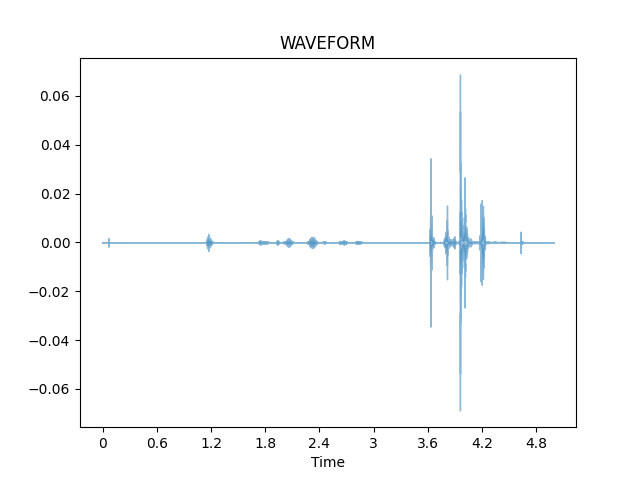
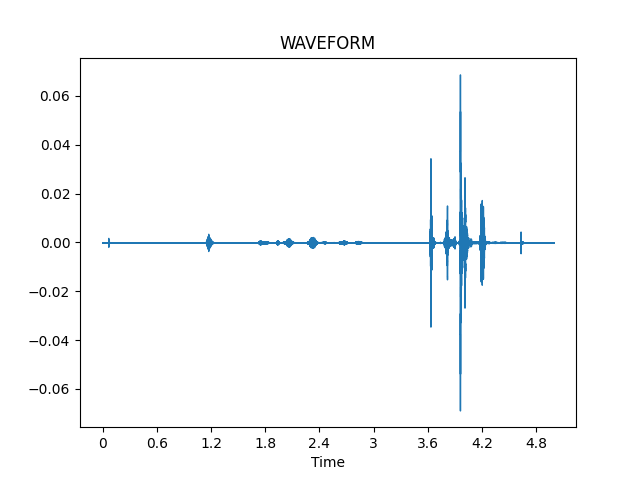
Nuevas graficas añadidas con carpetas

Changed region(s): [[0.1562, 0.3438, 0.8438, 0.6562]]

diff --git a/librosaejemplo.py b/librosaejemplo.py
@@ -7,6 +7,9 @@ WAVEFORM_path_export = 'waveform'
 SPECTROGRAM_path_export='spectogram'
 CHROMAGRAM_path_export='chromagram'
 MFCC_path_export='mfcc'
+AMPLITUDEENV_path_export='amplitude envelope'
+RMSE_path_export='root mean square energy'
+ZCR_path_export='zero croosing rate'
 clip = (r'C:\Users\BHC4SLP\Documents\Python Projects\Proyecto2-GraficaAudio\PruebaAudio1.wav')
 
 
@@ -15,7 +18,7 @@ D = librosa.stft(y)
 # STFT of y 
 S_db = librosa.amplitude_to_db(np.abs(D), ref=np.max) 
 
-# # Simple WAVEFORM to check clip trimming accuracy 
+# Simple WAVEFORM to check clip trimming accuracy 
 fig, ax = plt.subplots() 
 img = librosa.display.waveshow(y, sr=sr, x_axis='time') 
 ax.set(title='WAVEFORM') 
@@ -27,11 +30,95 @@ if not os.path.exists(WAVEFORM_path_export):
 fig.savefig(os.path.join(WAVEFORM_path_export,image_filename_to_save)) 
 plt.close()
 
+#Calculatin amplitude envelope
+FRAME_SIZE = 1024
+HOP_LENGTH = 512
+
+def amplitude_envelope(signal, frame_size, hop_length):
+    """Calculate the amplitude envelope of a signal with a given frame size nad hop length."""
+    amplitude_envelope = []
+    
+    # calculate amplitude envelope for each frame
+    for i in range(0, len(signal), hop_length): 
+        amplitude_envelope_current_frame = max(signal[i:i+frame_size]) 
+        amplitude_envelope.append(amplitude_envelope_current_frame)
+    
+    return np.array(amplitude_envelope)   
+
+def fancy_amplitude_envelope(signal, frame_size, hop_length):
+    """Fancier Python code to calculate the amplitude envelope of a signal with a given frame size."""
+    return np.array([max(signal[i:i+frame_size]) for i in range(0, len(signal), hop_length)])
+
+# number of frames in amplitude envelope
+ae_y = amplitude_envelope(y, FRAME_SIZE, HOP_LENGTH)
+len(ae_y)
+
+#Visualizing amplitud envelope
+frames = range(len(ae_y))
+t = librosa.frames_to_time(frames, hop_length=HOP_LENGTH)
+
+# amplitude envelope is graphed in red
+
+plt.figure(figsize=(15, 17))
+
+fig, ax = plt.subplots()
+img=librosa.display.waveshow(y, alpha=0.5)
+plt.plot(t, ae_y, color="r")
+#plt.ylim((-1, 1))
+ax.set(title="Amplitude envelope")
+#The first strips off any trailing slashes, the second gives you the last part of the path. 
+audio_filename = os.path.basename(os.path.normpath(clip)) 
+image_filename_to_save = str(audio_filename).replace(".wav", "-", 1) + "AmplitudeEnvelope.png" 
+if not os.path.exists(AMPLITUDEENV_path_export): 
+    os.makedirs(AMPLITUDEENV_path_export) 
+fig.savefig(os.path.join(AMPLITUDEENV_path_export,image_filename_to_save)) 
+plt.close()
+
+#Root-mean-squared energy with Librosa
+rms_y = librosa.feature.rms(y=y, frame_length=FRAME_SIZE, hop_length=HOP_LENGTH)[0]
+
+#Visualise RMSE + waveform
+frames = range(len(rms_y))
+t = librosa.frames_to_time(frames, hop_length=HOP_LENGTH)
+
+# rms energy is graphed in red
+
+plt.figure(figsize=(15, 17))
+fig, ax = plt.subplots()
+librosa.display.waveshow(y, alpha=0.5)
+plt.plot(t, rms_y, color="r")
+#plt.ylim((-1, 1))
+ax.set(title="RMS energy")
+audio_filename = os.path.basename(os.path.normpath(clip)) 
+image_filename_to_save = str(audio_filename).replace(".wav", "-", 1) + "RootMeanSquareEnergy.png" 
+if not os.path.exists(RMSE_path_export): 
+    os.makedirs(RMSE_path_export) 
+fig.savefig(os.path.join(RMSE_path_export,image_filename_to_save)) 
+plt.close()
+
+#Zero-crossing rate with Librosa
+zcr_y = librosa.feature.zero_crossing_rate(y, frame_length=FRAME_SIZE, hop_length=HOP_LENGTH)[0]
+zcr_y.size
+
+#Visualise zero-crossing rate with Librosa
+plt.figure(figsize=(15, 10))
+fig, ax = plt.subplots()
+plt.plot(t, zcr_y, color="r")
+plt.ylim(0, 1)
+#plt.show()
+ax.set(title="Zero Croosing Rate")
+audio_filename = os.path.basename(os.path.normpath(clip)) 
+image_filename_to_save = str(audio_filename).replace(".wav", "-", 1) + "ZeroCroosingRate.png" 
+if not os.path.exists(ZCR_path_export): 
+    os.makedirs(ZCR_path_export) 
+fig.savefig(os.path.join(ZCR_path_export,image_filename_to_save)) 
+plt.close()
+
 # SPECTROGRAM representation - object-oriented interface 
 fig, ax = plt.subplots() 
 img = librosa.display.specshow(S_db, x_axis='time', y_axis='linear', ax=ax) 
 img = librosa.display.specshow(S_db, x_axis='time', y_axis='log', ax=ax, cmap='gray_r') 
-ax.set(title='SPECTROGRAMgram') 
+ax.set(title='SPECTROGRAM') 
 #The first strips off any trailing slashes, the second gives you the last part of the path. 
 audio_filename = os.path.basename(os.path.normpath(clip)) 
 image_filename_to_save = str(audio_filename).replace(".flac", "-", 1) + "SPECTROGRAM.png" 
